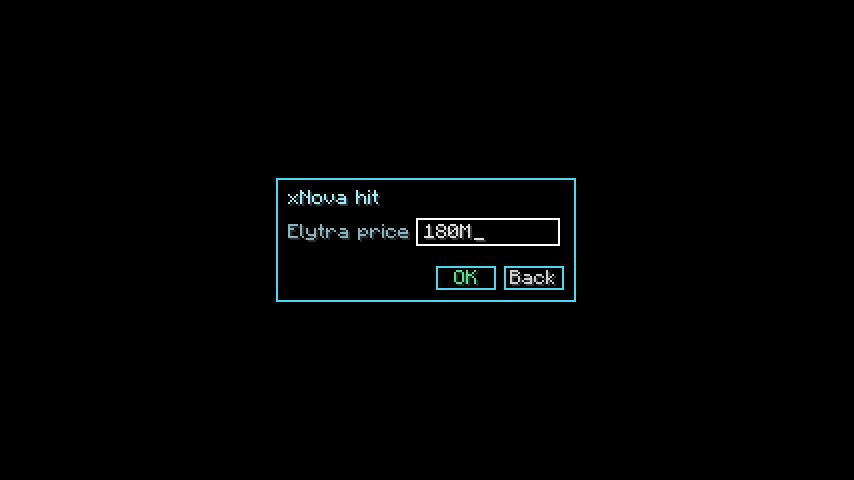
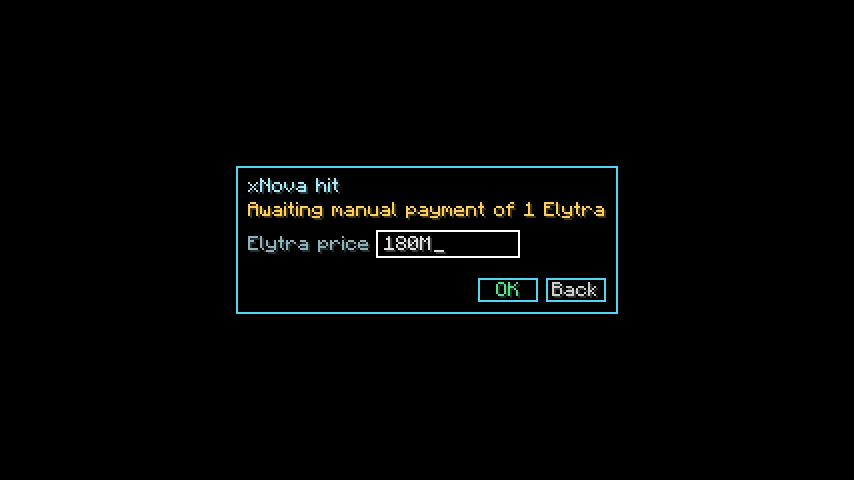
Show "Awaiting manual payment of ..." and open the score box on T too
Claude-Session: https://claude.ai/code/session_01PoLsKm9a5sHzeNbXLJUbZc

Changed region(s): [[0.274, 0.3438, 0.7307, 0.6562]]

diff --git a/src/main/java/com/donutgamble/client/ScoreScreen.java b/src/main/java/com/donutgamble/client/ScoreScreen.java
@@ -12,39 +12,55 @@ import org.lwjgl.glfw.GLFW;
 
 /** Small box that pops up after a letter is clicked: the round's numbers, or the elytra price. */
 final class ScoreScreen extends Screen {
-	private static final int W = 150;
-	private static final int H = 62;
+	private static final int MIN_W = 150;
+	private static final int H = 74;
 
 	private final GambleState state;
 	private final Bet bet;
 	private final String heading;
+	private final String subline;
+	private final int sublineColor;
 	private final boolean elytra;
+	private int W;
 	private TextFieldWidget them, me, price;
 
-	private ScoreScreen(GambleState state, Bet bet, String heading, boolean elytra) {
+	private ScoreScreen(GambleState state, Bet bet, String heading, String subline, int sublineColor, boolean elytra) {
 		super(Text.literal(heading));
 		this.state = state;
 		this.bet = bet;
 		this.heading = heading;
+		this.subline = subline;
+		this.sublineColor = sublineColor;
 		this.elytra = elytra;
 	}
 
 	/** Result already recorded; this just asks for the numbers (optional). */
 	static ScoreScreen score(GambleState state, Bet bet, String result) {
-		return new ScoreScreen(state, bet, bet.player + " " + result, false);
+		if (bet.tie) {
+			return new ScoreScreen(state, bet, bet.player + " " + result, "Tie goes to you: +" + QueueOverlay.money(bet.amount), Colors.GREEN, false);
+		}
+		if (bet.outcome == Outcome.PLAYER_WIN) {
+			return new ScoreScreen(state, bet, bet.player + " " + result, awaiting(QueueOverlay.owedLabel(bet)), Colors.GOLD, false);
+		}
+		return new ScoreScreen(state, bet, bet.player + " " + result, "You keep " + QueueOverlay.money(bet.amount), Colors.GREEN, false);
 	}
 
 	/** An Ely win: confirm what the elytra costs before it's counted. */
 	static ScoreScreen elytraPrice(GambleState state, Bet bet) {
-		return new ScoreScreen(state, bet, bet.player + " hit", true);
+		return new ScoreScreen(state, bet, bet.player + " hit", awaiting("1 Elytra"), Colors.GOLD, true);
+	}
+
+	static String awaiting(String what) {
+		return "Awaiting manual payment of " + what;
 	}
 
 	@Override
 	protected void init() {
+		W = Math.max(MIN_W, Math.max(textRenderer.getWidth(heading), textRenderer.getWidth(subline)) + 12);
 		int x = (width - W) / 2;
 		int y = (height - H) / 2;
 		if (elytra) {
-			price = new TextFieldWidget(textRenderer, x + 70, y + 20, 72, 14, Text.literal("Elytra price"));
+			price = new TextFieldWidget(textRenderer, x + 70, y + 32, 72, 14, Text.literal("Elytra price"));
 			price.setMaxLength(12);
 			price.setTextPredicate(s -> s.matches("[0-9.,kKmMbB$]*"));
 			if (state.config.elytraPrice > 0) {
@@ -53,8 +69,8 @@ final class ScoreScreen extends Screen {
 			addDrawableChild(price);
 			setInitialFocus(price);
 		} else {
-			them = scoreField(x + 34, y + 20, "Their score");
-			me = scoreField(x + 96, y + 20, "My score");
+			them = scoreField(x + 34, y + 32, "Their score");
+			me = scoreField(x + 96, y + 32, "My score");
 			setInitialFocus(them);
 		}
 		addDrawableChild(new FlatButton(x + W - 70, y + H - 18, 30, 12, "OK", Colors.GREEN, this::save));
@@ -98,11 +114,12 @@ final class ScoreScreen extends Screen {
 		int y = (height - H) / 2;
 		Draw.box(ctx, x, y, x + W, y + H, Colors.BOX_BG);
 		ctx.drawTextWithShadow(textRenderer, heading, x + 6, y + 6, Colors.text());
+		ctx.drawTextWithShadow(textRenderer, subline, x + 6, y + 18, sublineColor);
 		if (elytra) {
-			ctx.drawTextWithShadow(textRenderer, "Elytra price", x + 6, y + 23, Colors.muted());
+			ctx.drawTextWithShadow(textRenderer, "Elytra price", x + 6, y + 35, Colors.muted());
 		} else {
-			ctx.drawTextWithShadow(textRenderer, "Them", x + 6, y + 23, Colors.muted());
-			ctx.drawTextWithShadow(textRenderer, "Me", x + 78, y + 23, Colors.muted());
+			ctx.drawTextWithShadow(textRenderer, "Them", x + 6, y + 35, Colors.muted());
+			ctx.drawTextWithShadow(textRenderer, "Me", x + 78, y + 35, Colors.muted());
 		}
 	}
 

diff --git a/src/main/java/com/donutgamble/client/QueueOverlay.java b/src/main/java/com/donutgamble/client/QueueOverlay.java
@@ -245,7 +245,7 @@ final class QueueOverlay {
 		int[] cols = oweColumns(tr, shown);
 		for (Bet b : shown) {
 			ctx.drawTextWithShadow(tr, b.player, PAD, y, Colors.text());
-			ctx.drawTextWithShadow(tr, owedLabel(b), cols[0], y, Colors.GOLD);
+			ctx.drawTextWithShadow(tr, oweText(b), cols[0], y, Colors.GOLD);
 			ctx.drawTextWithShadow(tr, Tab.of(b.game).label, cols[1], y, Colors.muted());
 			int lx = cols[2];
 			if (!b.payoutIsElytra()) {
@@ -279,9 +279,9 @@ final class QueueOverlay {
 		int amountW = 0;
 		for (Bet b : shown) {
 			nameW = Math.max(nameW, tr.getWidth(b.player));
-			amountW = Math.max(amountW, tr.getWidth(owedLabel(b)));
+			amountW = Math.max(amountW, tr.getWidth(oweText(b)));
 		}
-		int amountX = PAD + nameW + 8;
+		int amountX = PAD + nameW + 6;
 		int gameX = amountX + amountW + 8;
 		int lettersX = gameX + tr.getWidth("Paper") + 6;
 		return new int[]{amountX, gameX, lettersX};
@@ -376,18 +376,23 @@ final class QueueOverlay {
 		}
 	}
 
-	/** L and T are instant; only W opens a box. */
+	/** L is instant; W and T open the score box. */
 	private void lose(Bet b) {
 		state.resolve(b, Outcome.PLAYER_LOSE, null, null);
 	}
 
 	private void tie(Bet b) {
 		state.resolveTie(b);
+		MinecraftClient.getInstance().setScreen(ScoreScreen.score(state, b, "TIED"));
 	}
 
 	/** "$50m" like Donut SMP's own lists. */
 	static String money(long amount) {
 		return "$" + AmountParser.format(amount).toLowerCase(Locale.ROOT);
+	}
+
+	private static String oweText(Bet b) {
+		return "awaiting manual payment of " + owedLabel(b);
 	}
 
 	static String owedLabel(Bet b) {

diff --git a/src/gametest/java/com/donutgamble/client/DonutGambleClientGameTest.java b/src/gametest/java/com/donutgamble/client/DonutGambleClientGameTest.java
@@ -79,6 +79,15 @@ public class DonutGambleClientGameTest implements FabricClientGameTest {
 		});
 		context.waitTicks(5);
 		context.takeScreenshot("donutgamble-score");
+
+		context.runOnClient(client -> {
+			GambleState state = DonutGambleClient.state;
+			Bet next = state.ledger.pending(Game.PAPER).get(0);
+			state.resolveTie(next);
+			client.setScreen(ScoreScreen.score(state, next, "TIED"));
+		});
+		context.waitTicks(5);
+		context.takeScreenshot("donutgamble-tie");
 		context.setScreen(() -> null);
 	}
 

diff --git a/README.md b/README.md
@@ -20,7 +20,7 @@ The queue in the top-left has a tab for each game, plus **Owe** and **Stats**:
 | Tab | Shows |
 |---|---|
 | **Paper** / **BJ** / **Ely** | That game's queue and profit. **#1 is the bet you're playing now.** The number on the tab is how many are waiting. |
-| **Owe** | Everyone you still owe, the total, and which game they won. |
+| **Owe** | Everyone you still owe ("awaiting manual payment of $90m"), the total, and which game they won. |
 | **Stats** | Profit, W-L-T and total bet for each game, this session and lifetime. Also **Color** and **New session**. |
 
 ```
@@ -38,8 +38,9 @@ To click tabs and letters, open chat (`T`) or press `Insert` to free the mouse.
 | Click | What it does |
 |---|---|
 | A tab | Switch to it. |
-| **W** | They won. A small box opens for the score (Them / Me). Press Enter to save or Skip. |
-| **L** / **T** | They lost / tied. Recorded straight away, no box. Ties go to you. |
+| **W** | They won. A box opens saying "Awaiting manual payment of $100m" with the score (Them / Me). Press Enter to save or Skip. |
+| **T** | Tie (goes to you). The same score box opens. |
+| **L** | They lost. Recorded straight away, no box. |
 | **W** on an Ely bet | They hit the item frame. Confirm the elytra price, and it's counted as your cost. |
 | **→BJ** (etc.) | Move a bet to another game's tab if the guess was wrong. |
 | **P** (Owe tab) | Types `/pay <name> <amount>` in chat (2x their bet). You press Enter to send. |
